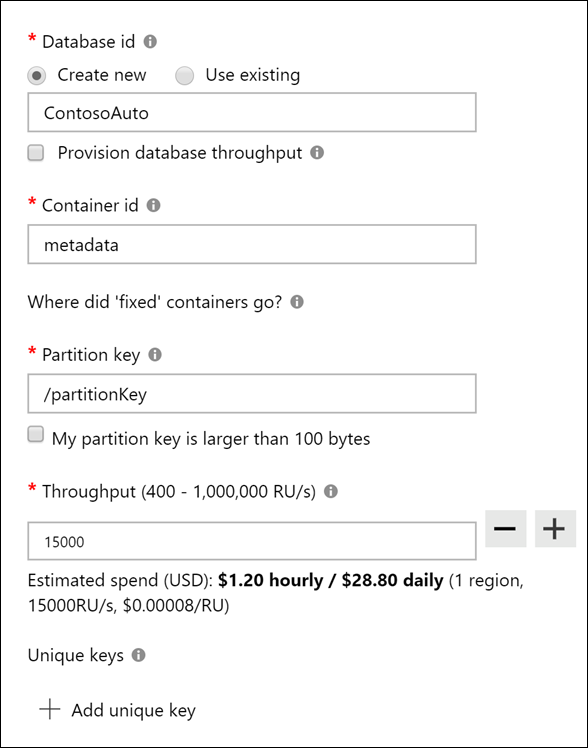
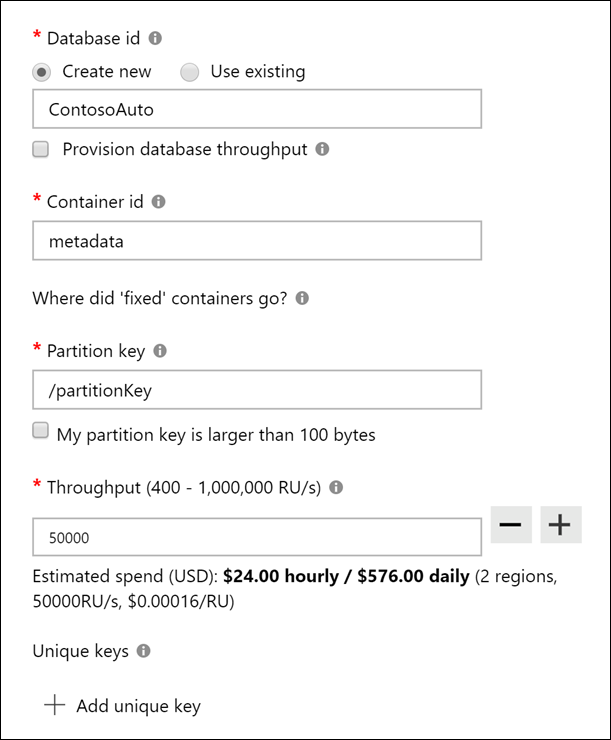
Increase initial metadata container size

diff --git a/IoT/HOL step-by step - Cosmos DB scenario-based labs - IoT.md b/IoT/HOL step-by step - Cosmos DB scenario-based labs - IoT.md
@@ -164,9 +164,11 @@ In this task, you will create a Cosmos DB database and three SQL-based container
 
    d. Partition key: **/partitionKey**
 
-   e. Throughput: **15000**
+   e. Throughput: **50000**
 
    ![The New Container form is displayed with the previously described values.](media/cosmos-new-container-metadata.png 'New metadata container')
+
+   > **Note**: We are initially setting the throughput on this container to `50000` RU/s because the data generator will perform a bulk insert of metadata the first time it runs. After inserting the data, it will programmatically reduce the throughput to `15000`.
 
 6. Select **OK** to create the container.
 
